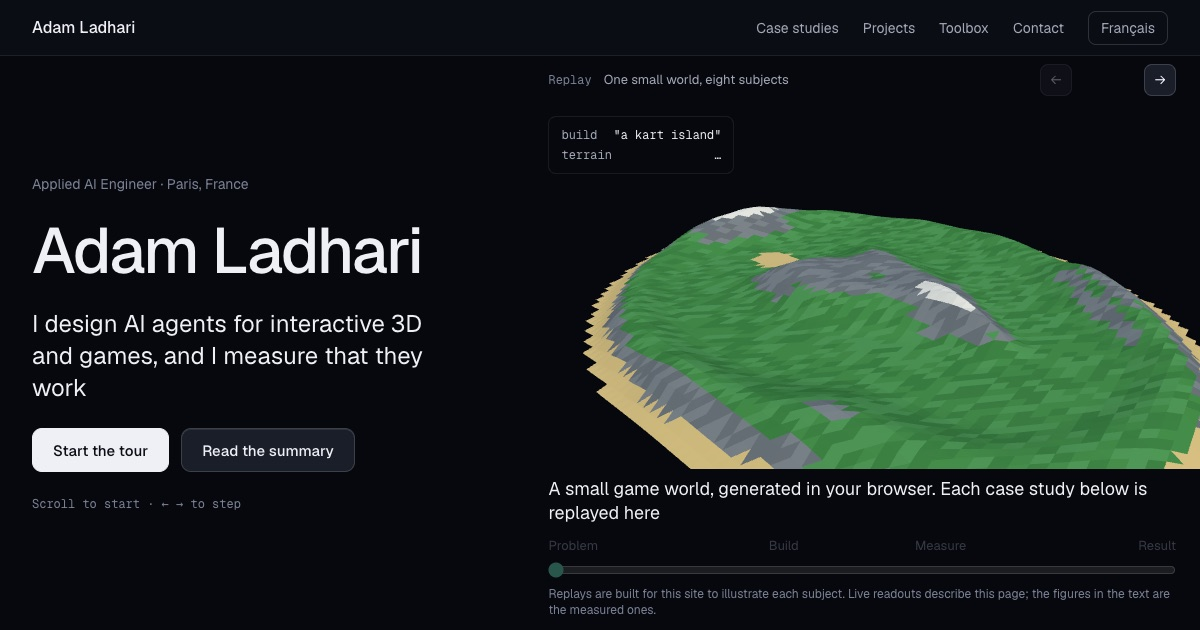
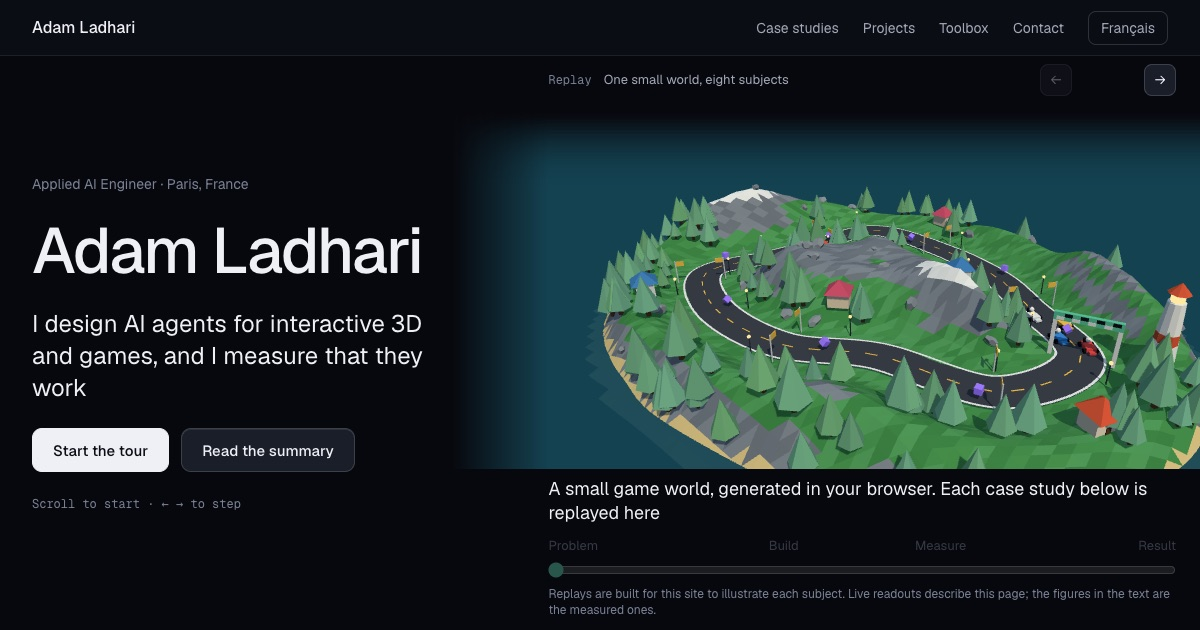
Share image shows the finished island; ?built skips the opening

Changed region(s): [[0.4008, 0.181, 1.0, 0.754]]

diff --git a/src/stage/lenses/overview.ts b/src/stage/lenses/overview.ts
@@ -11,7 +11,8 @@ export function overview(ctx: Ctx): Lens {
   const w = ctx.world;
   const bots = new Bots(w);
   let clock = 0;
-  let built = false;
+  // ?built skips the opening (used when capturing the share image).
+  let built = new URLSearchParams(location.search).has('built');
 
   return {
     enter() {
